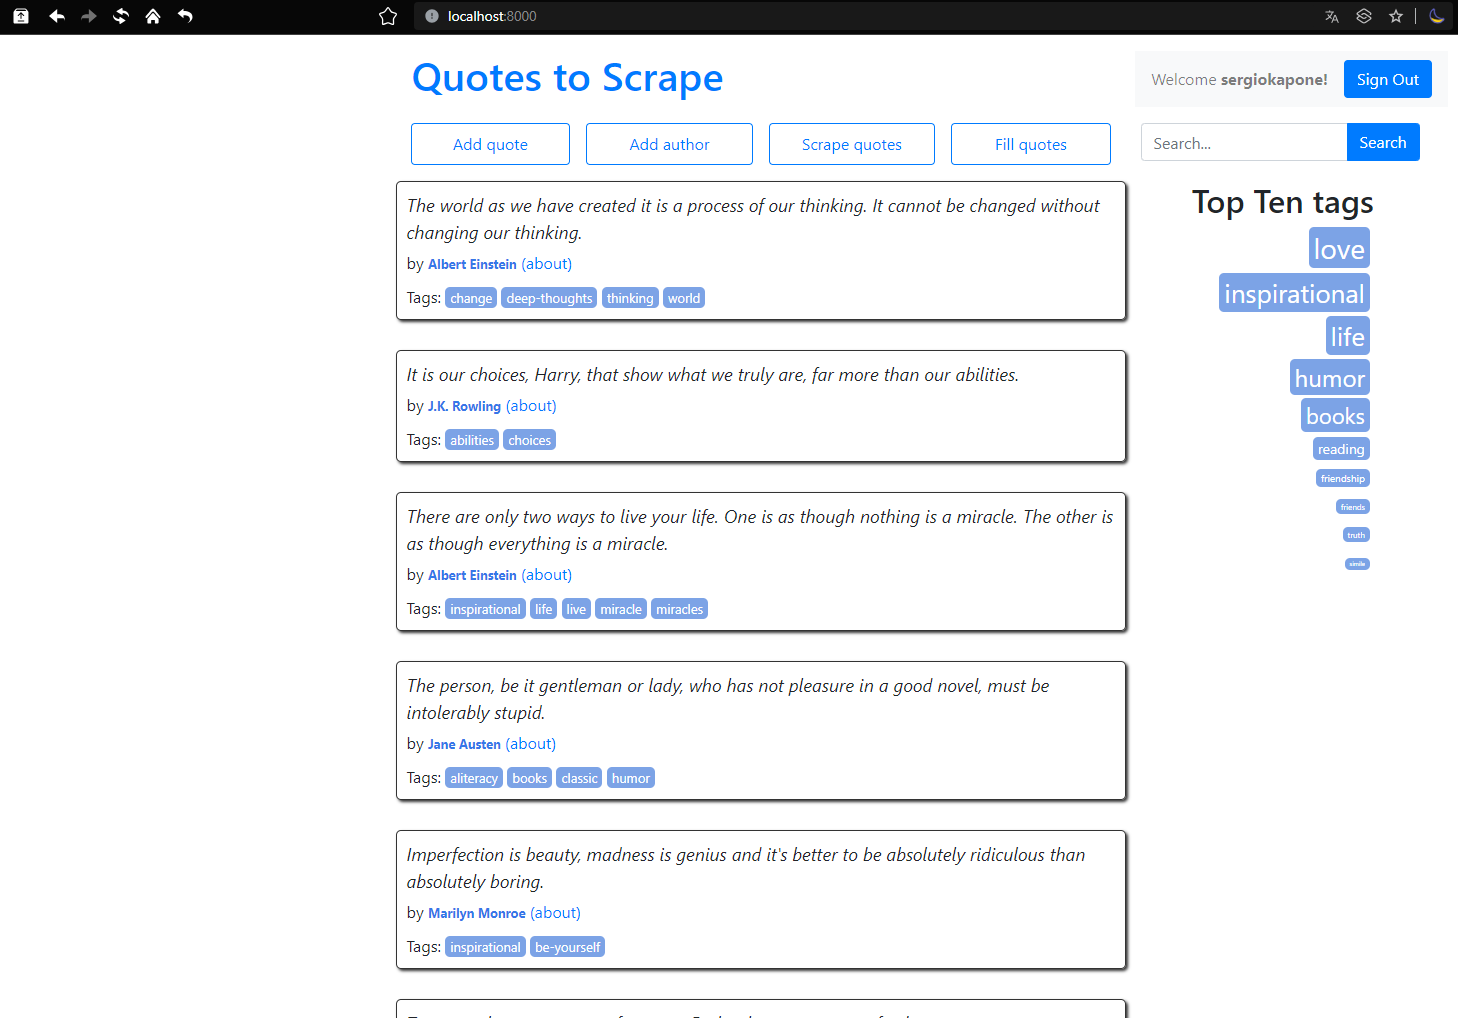
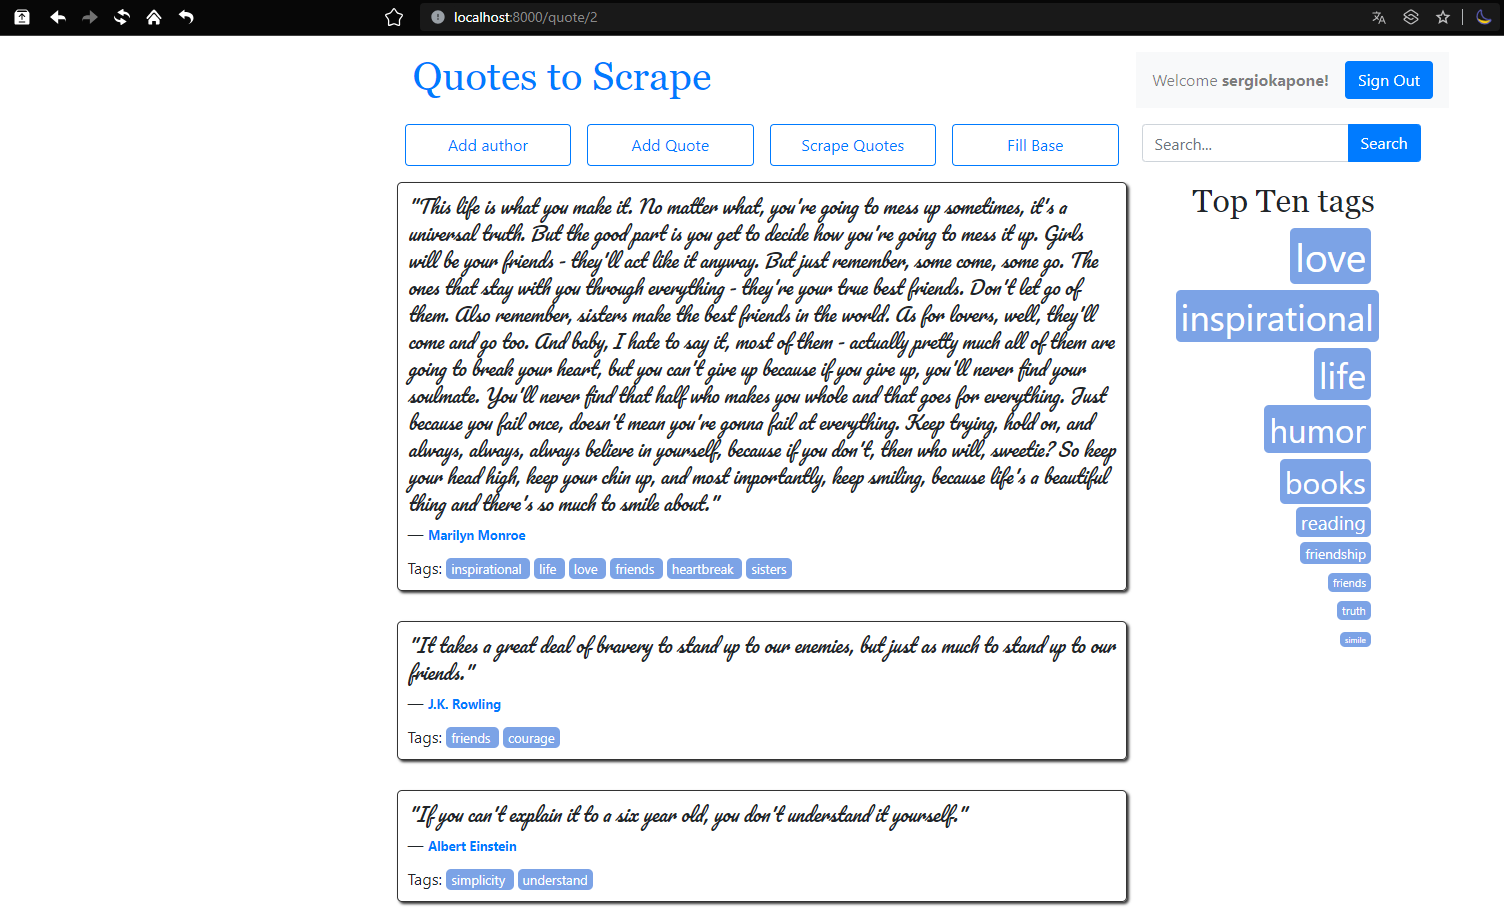
add new view

Changed region(s): [[0.0, 0.0, 1.0, 1.0]]

diff --git a/hw10/quotes/templates/quotes/quotes.html b/hw10/quotes/templates/quotes/quotes.html
@@ -1,22 +1,25 @@
 {% for quote in quotes %}
+
 <div class="quote" itemscope="" itemtype="http://schema.org/CreativeWork">
   <span class="text" itemprop="text">{{ quote.quote }}</span>
   <span>
-    by
-    <small class="author" itemprop="author">{{ quote.author.fullname }} </small>
-    <a
-      href="{% url 'quotes:author_page' author_slug=quote.author.fullname|slugify %}"
-      >(about)</a
-    >
+    &mdash;
+    <small class="author" itemprop="author">
+      <a
+        href="{% url 'quotes:author_page' author_slug=quote.author.fullname|slugify %}"
+      >
+        {{ quote.author.fullname }}
+      </a>
+    </small>
   </span>
   <div class="tags">
     Tags: {% for tag in quote.tags.all %}
     <a
-      class="tag"
+      class="tag mr-1"
       href="{% url 'quotes:quotes_by_tag' tag_name=tag.name page=1 %}"
-      >{{ tag.name }}</a
     >
-
+      {{ tag.name }}
+    </a>
     {% endfor %}
   </div>
 </div>

diff --git a/hw10/quotes/static/quotes/styles.css b/hw10/quotes/static/quotes/styles.css
@@ -24,6 +24,20 @@ h3 {
   font-style: italic;
 }
 
+.quote span.text {
+  font-family: "Pacifico";
+  display: block;
+  margin-bottom: 5px;
+  font-size: large;
+  font-style: italic;
+  position: relative; /* Добавлено для позиционирования псевдоэлементов */
+}
+
+.quote span.text::before,
+.quote span.text::after {
+  content: '"';
+}
+
 .quote small.author {
   font-weight: bold;
   color: #3677e8;
